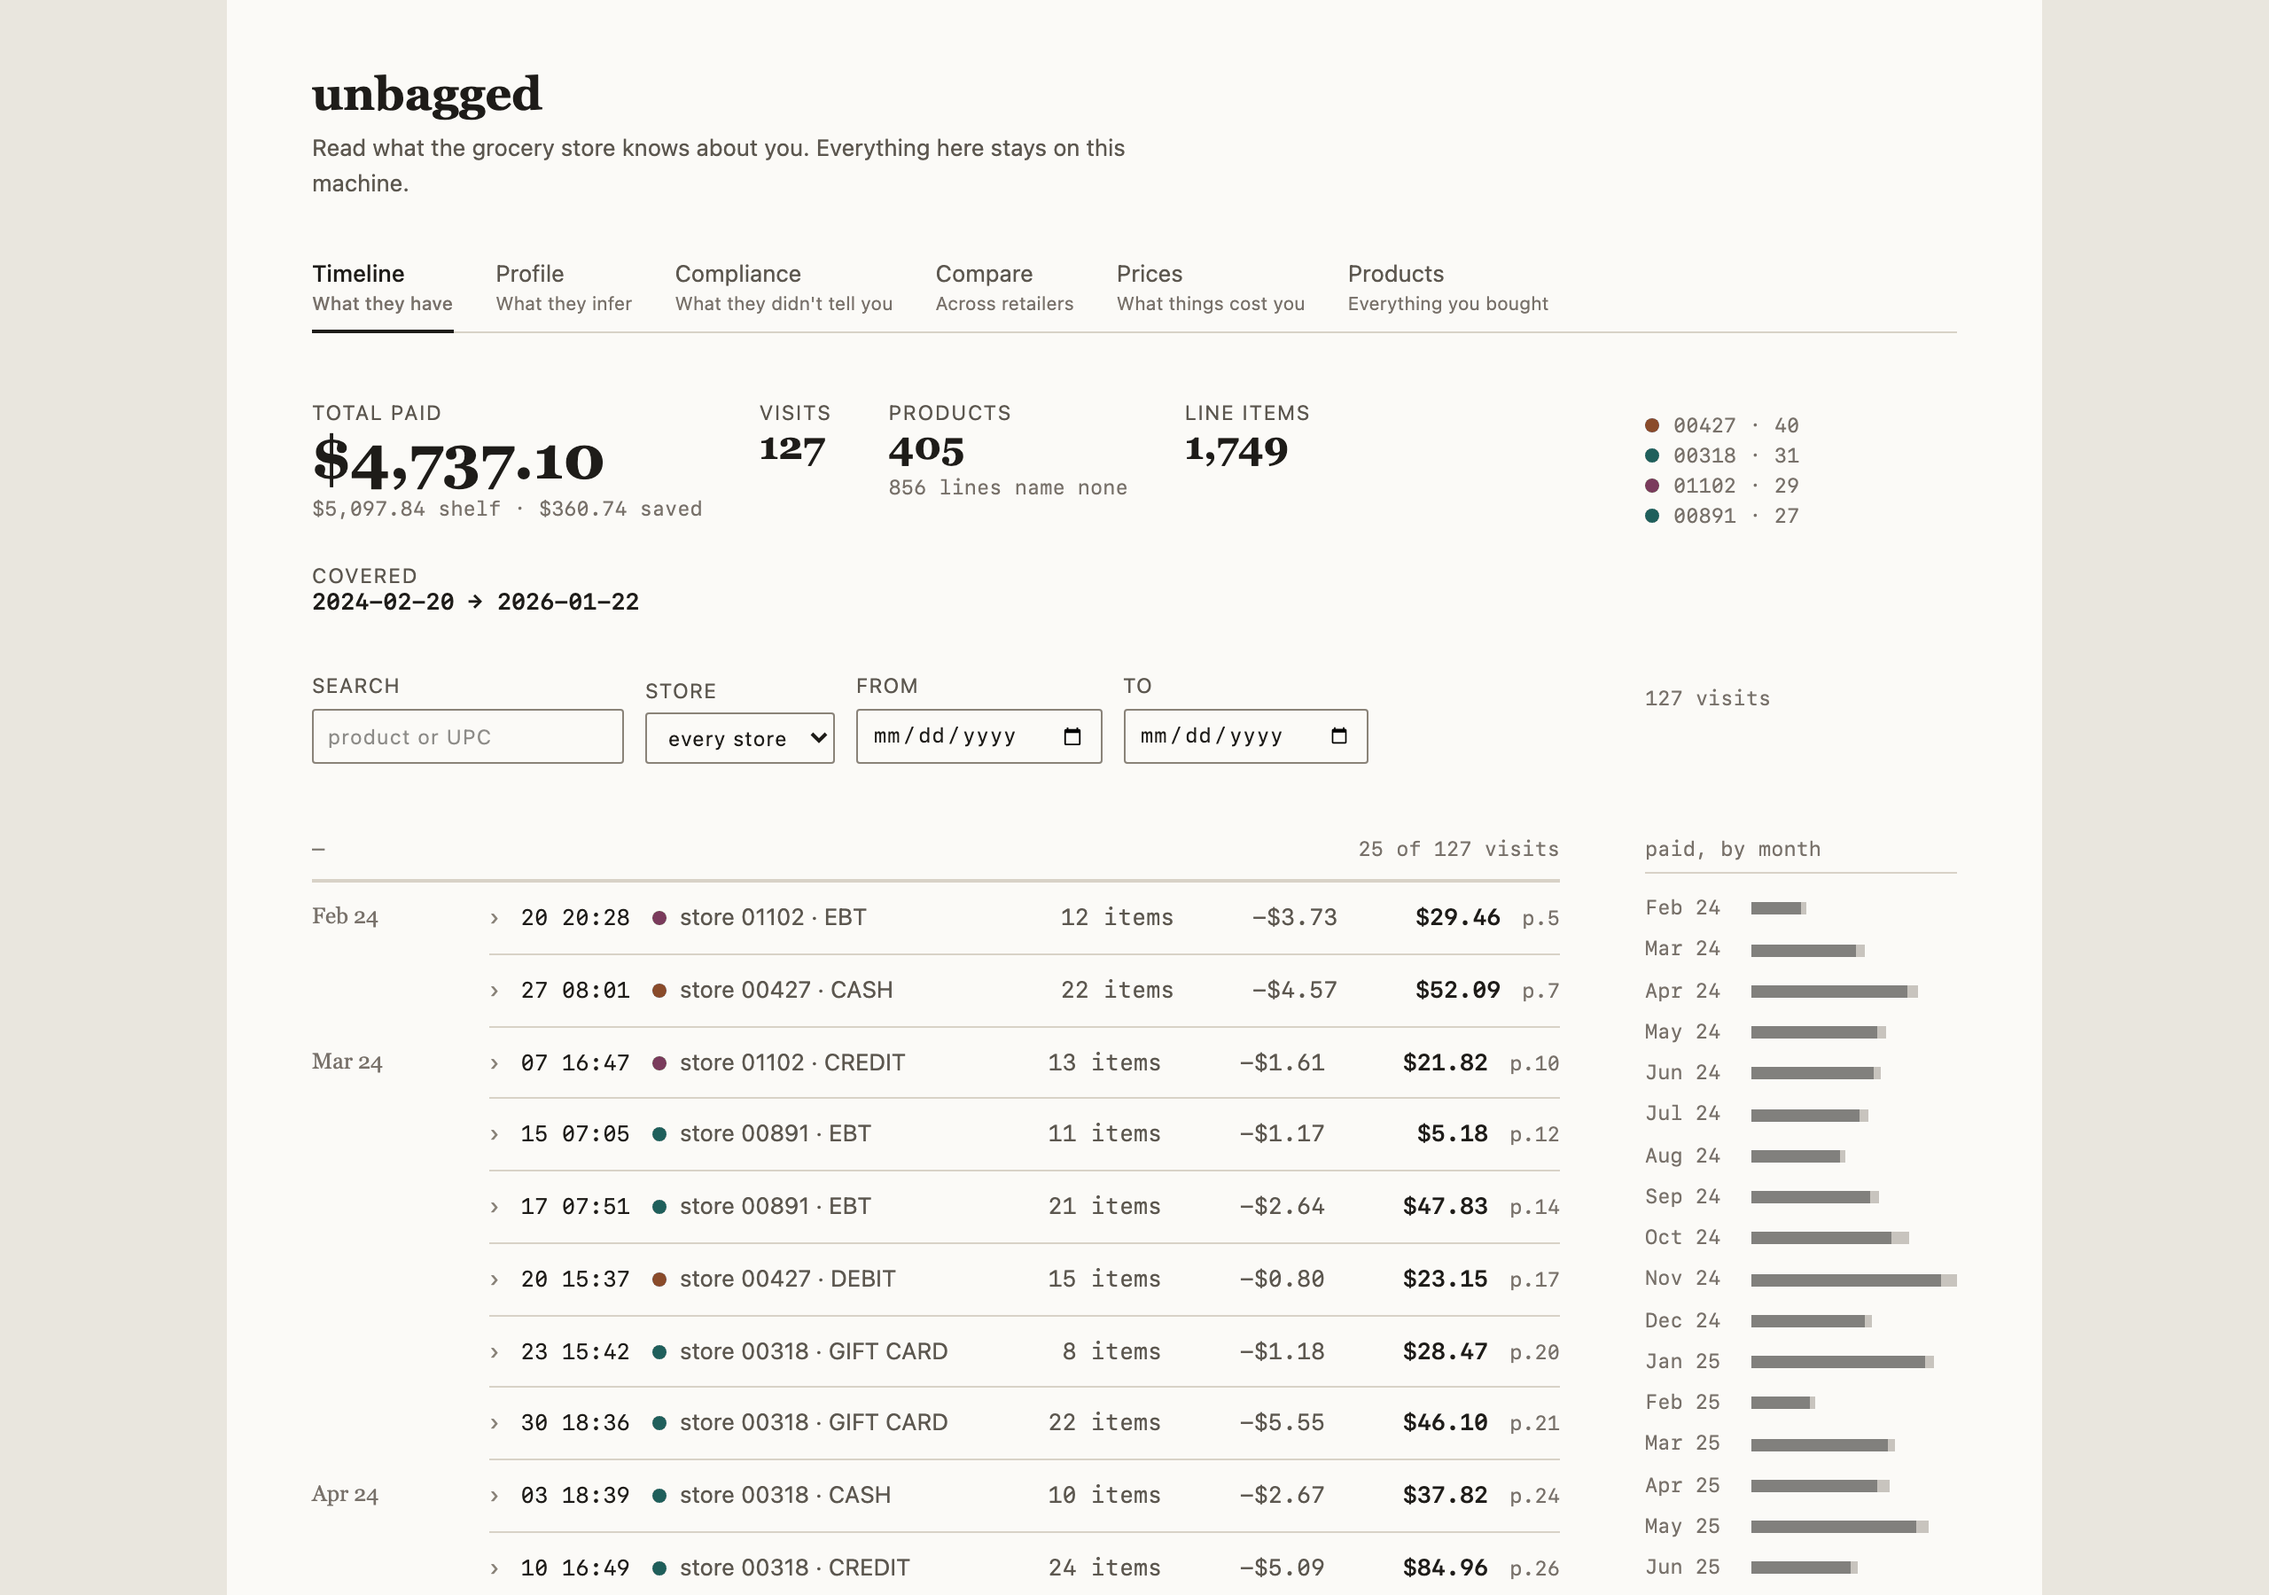
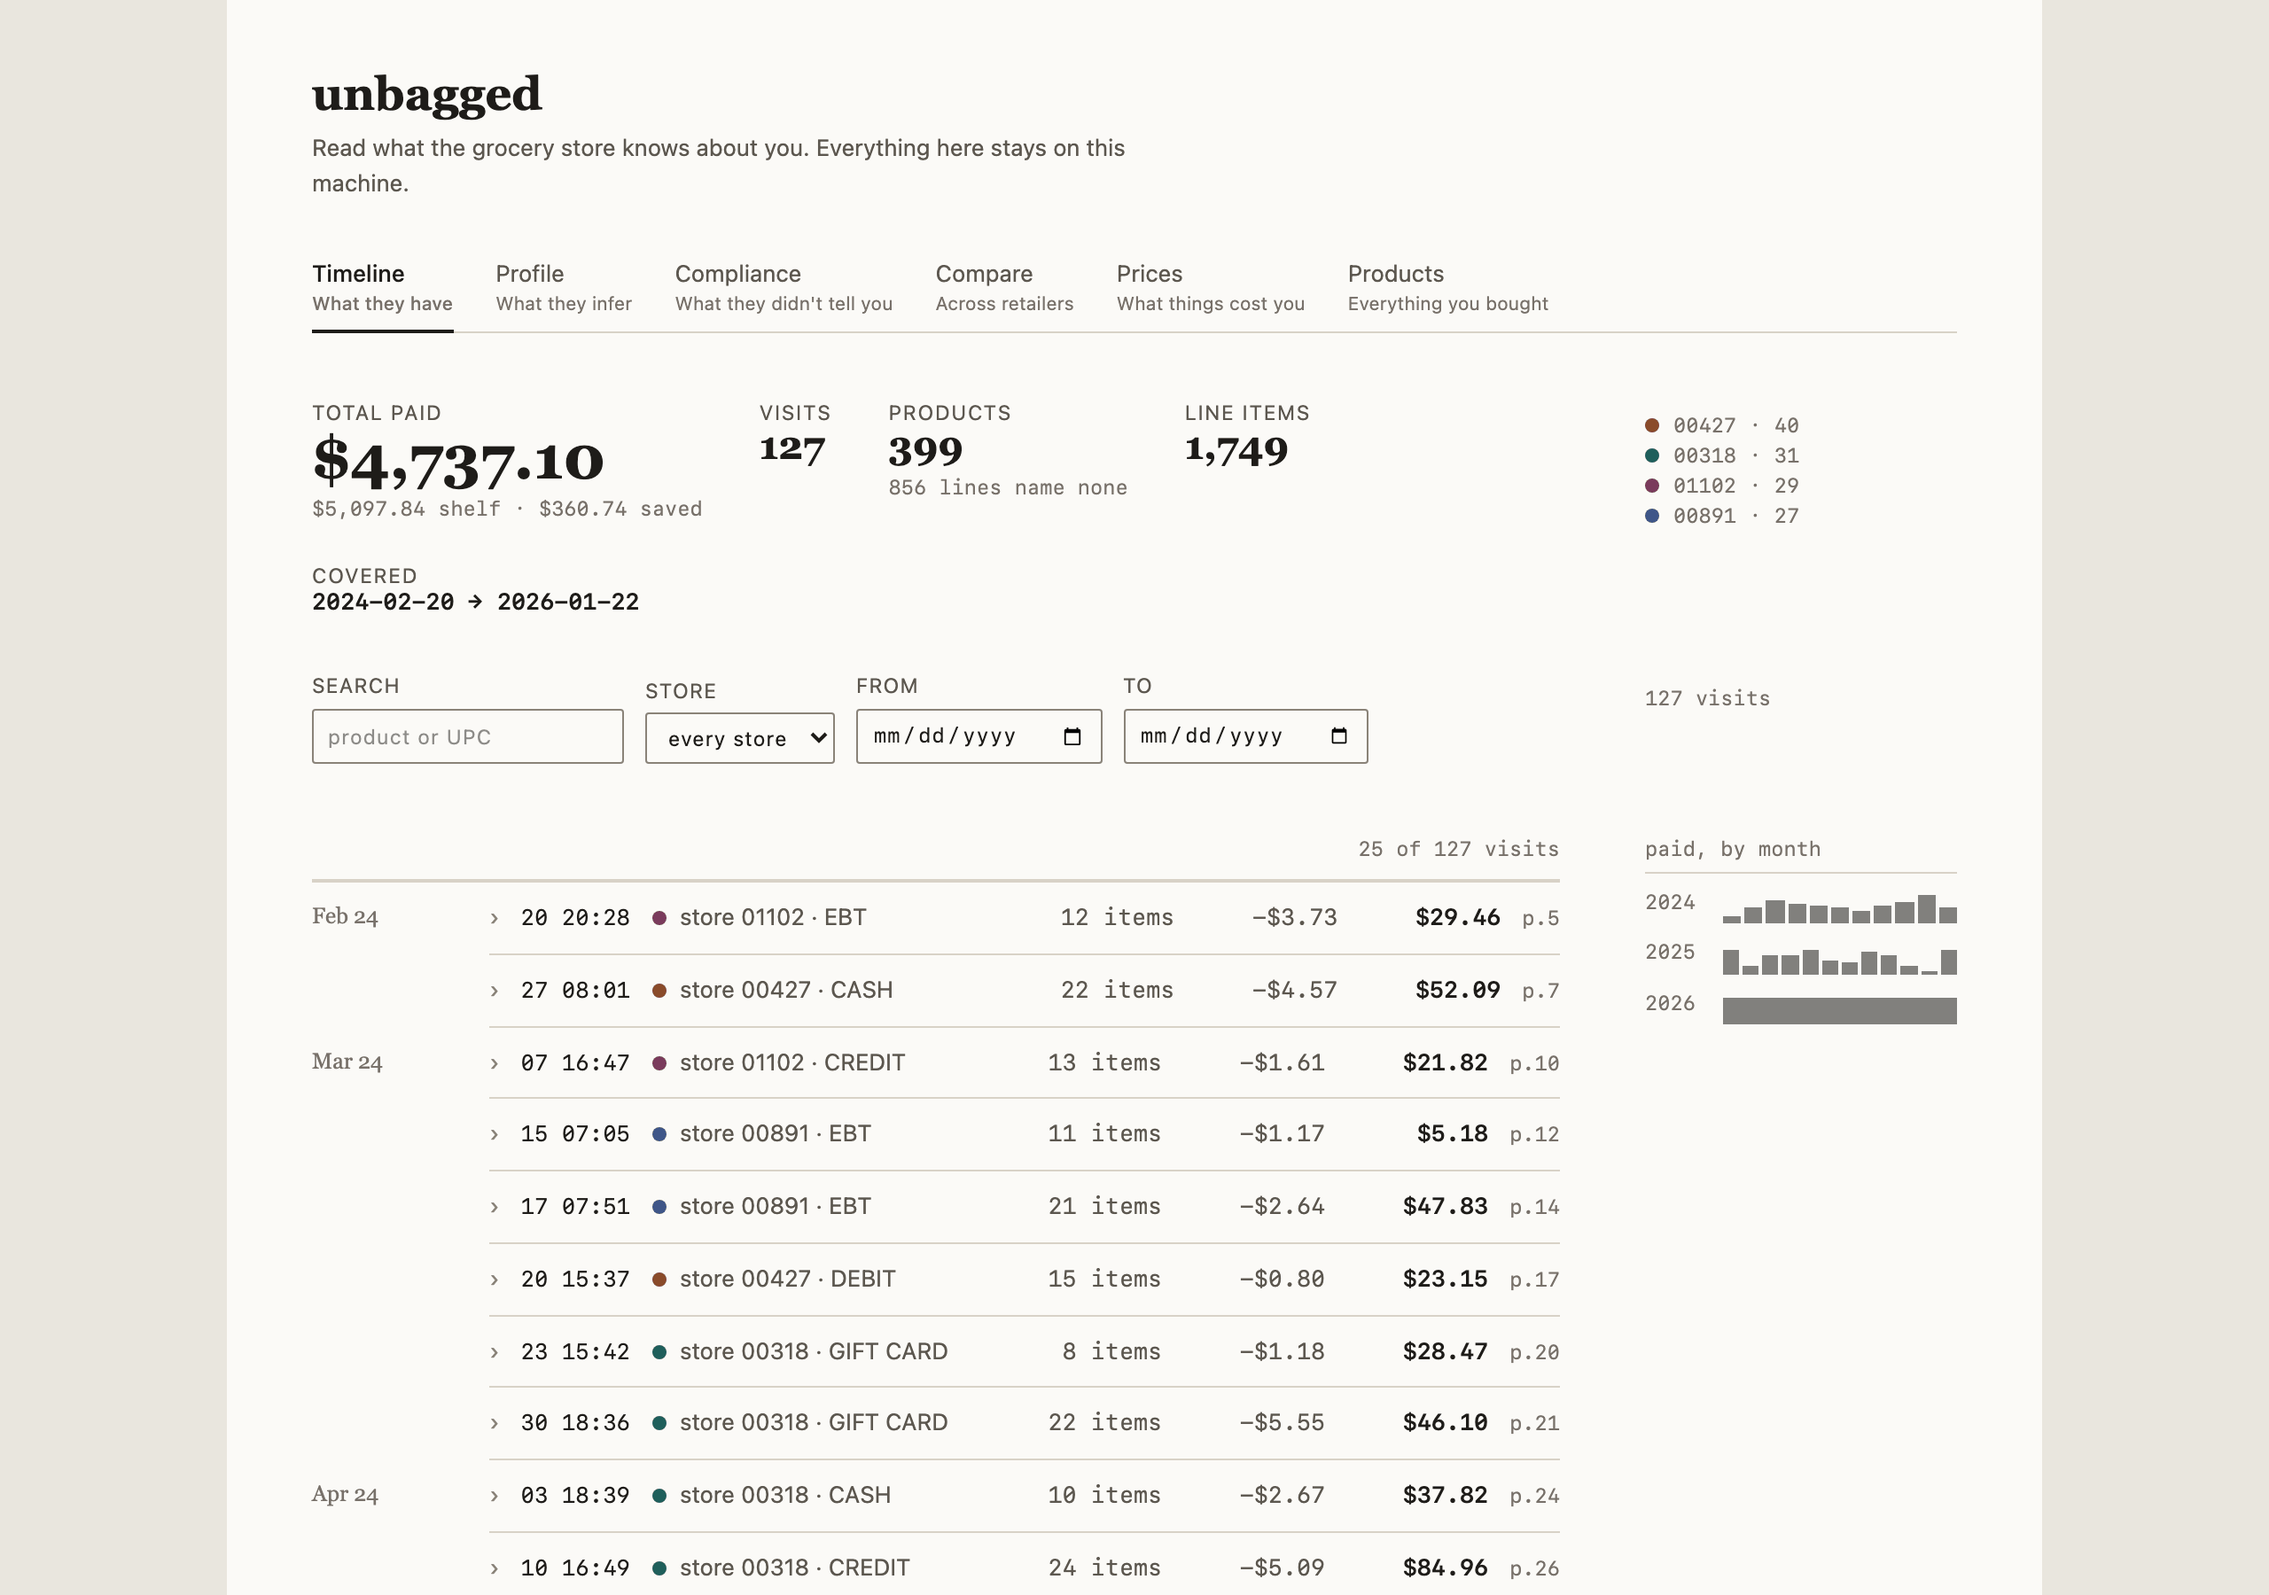
docs: cut the history, keep the contract
The docs had accumulated more record-of-how-we-got-here than description of what
the thing is. This trims that without losing anything a reader or a test depends
on.

`docs/handoff.md` loses §10 and most of §9. §10 asked the project owner four
questions that have all since been answered — scope, real-report validation,
letter templates — and read as open. §9 was forty-four lines of milestones all
complete since 0.9.0. The milestone TABLE stays, in eight rows instead of forty-
four, because six test modules and `repository.py` cite these by name: strip the
definitions and `test_scan_pii.py`'s "the M0 acceptance case" points at nothing.
§8 stays whole — `Compliance.tsx:22` and `DESIGN.md`'s decisions log both cite it
as the thing they deliberately departed from. §§0-7 are the live contract and are
untouched.

The README's "Working on it" spent twenty-four lines listing what
`make test-container` asserts, phrased as the bugs that made each assertion
necessary: a stale closure resolving half a minute later, a failed list read
keeping what is on screen. True, and a changelog of past defects in the place a
new contributor looks for how to run the tests. It now says what the tier is for
in four lines. The reasoning moved to `CONTRIBUTING.md` as a tier table, which is
where somebody deciding where to put a test is actually standing.

The Quickstart's `--build` paragraph argued from a past incident and had the
[…]

Changed region(s): [[0.7188, 0.56, 0.875, 0.9956], [0.4062, 0.28, 0.4375, 0.3111]]

diff --git a/docs/handoff.md b/docs/handoff.md
@@ -612,61 +612,20 @@ Wrap the Docker commands so contributors never need to remember overlay syntax.
 
 ## 9. Milestones
 
-> **All milestones are complete as of 0.9.0 (2026-09-03).** This section is kept
-> as the record of the intended order, not as a plan. Work since then is recorded
-> in `CHANGELOG.md`, and planned work is filed as GitHub issues.
+> **Complete as of 0.9.0 (2026-09-03).** Kept because the tests still cite these
+> by name: `test_scan_pii.py`, `test_repository.py`, `test_kroger_degradation.py`
+> and `test_generic_adapter.py` each assert one of the acceptance criteria below,
+> and `repository.py` cites M1. The build order they record is history; shipped
+> work is in `CHANGELOG.md` and planned work is filed as
+> [GitHub issues](https://github.com/jdmacleod/unbagged/issues).
 
-Each milestone is independently mergeable with passing CI.
-
-**M0 — Safeguards and scaffolding.** Repo init, MIT LICENSE, `.gitignore`,
-`.dockerignore`, `CLAUDE.md`, pre-commit config, `tools/scan_pii.py`, CI workflow,
-Makefile, CONTRIBUTING.md.
-*Acceptance:* deliberately place a file containing a fake-but-realistic address under
-`data/` and in the tree; confirm the hook and CI both reject it.
-
-**M1 — Canonical schema.** Migrations, models, a repository layer. No parsers yet.
-*Acceptance:* schema creates cleanly, round-trips a hand-built `ParseResult`.
-
-**M2 — Fixture generator.** `tools/make_fixtures.py` emitting a structurally faithful
-synthetic Kroger report.
-*Acceptance:* generated fixture passes `scan_pii` and matches the documented section
-structure.
-
-**M3 — Kroger adapter.** Full parse against the synthetic fixture. All four blobs,
-identity graph, both inference classes, ABSENT disclosures, follow-up action for the
-pre-2022 supplemental window.
-*Acceptance:* parses the fixture into the expected record counts; degrades with warnings
-rather than crashing on a truncated input.
-
-**M4 — API.** FastAPI read endpoints for each view, plus upload/ingest.
-*Acceptance:* OpenAPI schema generated; endpoints covered by tests against fixture data.
-
-**M5 — UI.** Timeline, Profile, Compliance. Compare and price history if time allows.
-*Acceptance:* every displayed value traceable to a provenance link.
-*Shipped:* all five, plus a sixth Products view added in 0.10.0. See §8 above.
-
-**M6 — Docker packaging.** Single-container compose, dev overlay, README quickstart.
-*Acceptance:* a clean machine with only Docker installed reaches a working UI in three
-commands.
-
-**M7 — Adapter authoring guide.** `docs/writing-an-adapter.md`, Safeway and H Mart stubs,
-generic-fallback adapter for unstructured letters.
-*Acceptance:* a contributor can add a new retailer without touching core code.
-
----
-
-## 10. Open questions for the project owner
-
-1. **Scope beyond groceries.** The schema is retailer-agnostic already. Do you want the
-   README to invite pharmacy, telecom, and airline adapters, or stay narrow to build a
-   credible v1 first? This decision drives the name choice in section 2.
-2. **Real-report validation.** M3 tests against synthetic fixtures only. You'll need to
-   validate the Kroger adapter against your actual report locally, outside the repo.
-   Suggest a documented workflow: `data/incoming/`, never staged, verified by the M0
-   tooling.
-3. **Contact with Bristol.** Fryer and Day have run public workshops on this exact
-   interaction design and listed public release as future work. Worth an email before M5
-   locks the UI down.
-4. **Follow-up letter templates.** Should the compliance view's letter generator borrow
-   Datenanfragen's template approach, or stay minimal? Reusing their letter-generator
-   package is possible but adds a TypeScript dependency to a Python backend.
+| | Milestone | Acceptance |
+|---|---|---|
+| M0 | Safeguards and scaffolding | A fake-but-realistic address under `data/` is rejected by both the hook and CI |
+| M1 | Canonical schema | A hand-built `ParseResult` round-trips through storage unchanged |
+| M2 | Fixture generator | The generated fixture passes `scan_pii` and matches the documented section structure |
+| M3 | Kroger adapter | Parses the fixture to the expected record counts, and degrades with warnings rather than crashing on truncated input |
+| M4 | API | OpenAPI schema generated; every endpoint covered against fixture data |
+| M5 | UI | Every displayed value traceable to a provenance link |
+| M6 | Docker packaging | A clean machine with only Docker reaches a working UI in three commands |
+| M7 | Adapter authoring guide | A contributor can add a retailer without touching core code |

diff --git a/README.md b/README.md
@@ -41,13 +41,14 @@ own document with its own citation, so nothing has to be unpacked by hand. One
 exception: a password-protected archive cannot be opened here, and says so rather
 than failing quietly — unpack that one yourself and drop what was inside.
 
-The first run builds the app: it pulls two base images, compiles the UI, and
-installs the Python dependencies, which took about 75 seconds on a clean machine.
-There is no prebuilt image to download, deliberately — you run what you can read.
-Later starts re-check the build first and are immediate when nothing has changed,
-which measured at about two seconds. That check is why `--build` is on the
-command: without it Docker reuses the image it built last, and a pull would
-leave you running the previous version with nothing but the footer to say so. Reading a long report takes 10 to 30 seconds.
+The first run builds the app: two base images, the UI, and the Python dependencies,
+about 75 seconds on a clean machine. There is no prebuilt image to download,
+deliberately — you run what you can read. Later starts re-check the build and take
+about two seconds when nothing has changed. Keep `--build` on the command: without
+it Docker serves whatever it built last, so a pull can leave you running the
+previous version.
+
+Reading a long report takes 10 to 30 seconds.
 
 Your database and uploads live in `./data`, on your disk. Back it up by copying
 that directory.
@@ -155,29 +156,11 @@ the API proxied at `/api`. The backend's own port is deliberately not published 
 dev: it would serve the bundle frozen into the image at build time, with no way to
 tell from a browser.
 
-`make test-container` builds and runs a real container and checks the things only a
-running one can show: effective uid, data permissions, bounded restart, that the
-shipped image is the runtime stage, that no view scrolls sideways from 320px up,
-that a first upload's report — which retailer matched, and every parse warning — is
-still on screen once the response has loaded, and that adding a response switches to
-it rather than leaving you reading the one you added before. A second browser module
-covers the ten to thirty seconds between dropping a file and reading the report: that
-the upload lands on the view you are on when it finishes rather than the one you left,
-that no other response flashes up first, that Back still works afterwards, that the
-report takes focus and the outcome is announced, that a failed read of the response
-list keeps what is on screen instead of emptying the page, and that a second tab finds
-out when a response is removed.
-Tests needing real uid semantics skip loudly on Docker Desktop, where bind-mount
-ownership is remapped and they would otherwise pass without checking anything.
-
-The two frontend tiers split by what they can reach, and it matters where a test
-lands. `make test-frontend` runs vitest over the pure decisions — which response to
-show, whether a navigation goes anywhere, what the arrival announcement says — and
-that suite has no DOM renderer, so it cannot reach any of the wiring. A claim about
-real responses landing against a real DOM — a stale closure resolving half a minute
-later, a history entry, a focus move, an aborted fetch — belongs in the container
-tier, which drives a browser. The browser modules there share one harness
-(`tests/container/browser.py`), so two tests that mean to start the same app do.
+`make test-container` builds and runs a real container and checks what only a running
+one can show: how it starts, what it may touch on disk, and what the app actually
+does in a browser between dropping a file and reading the report. It is slow and it
+is where anything involving a real DOM belongs; `CONTRIBUTING.md` explains which tier
+a given test goes in and why.
 
 `make help` lists the rest. `CONTRIBUTING.md` covers the PII safeguards, which you
 should read before putting a real report anywhere near this repository.

diff --git a/CONTRIBUTING.md b/CONTRIBUTING.md
@@ -243,6 +243,25 @@ the schema and widens the context window. A model that fails A and passes B is
 capable and tripped by the schema rather than a weak reader, which is a
 different thing to fix.
 
+## Which tier a test belongs in
+
+Three tiers, split by what they can reach. Putting a test in the wrong one is how
+it passes while asserting nothing.
+
+| Tier | Command | Reaches |
+|---|---|---|
+| Fast | `make test` | Python: adapters, extraction, the schema, the API through `TestClient` |
+| Frontend | `make test-frontend` | vitest over pure decisions — which response to show, whether a navigation goes anywhere, what the arrival announcement says. **No DOM renderer**, so it cannot reach any of the wiring |
+| Container | `make test-container` | A real image, a real browser: uid and data permissions, bounded restart, that no view scrolls sideways from 320px up, and anything that happens against a real DOM |
+
+The line that matters is between the last two. A claim about real responses landing
+— a stale closure resolving half a minute later, a history entry, a focus move, an
+aborted fetch — cannot be made in vitest, because there is nothing there for it to
+land against. It goes in the container tier.
+
+Tests needing real uid semantics skip loudly on Docker Desktop, where bind-mount
+ownership is remapped and they would otherwise pass without checking anything.
+
 ## Writing a test that needs a browser
 
 Mark it with `requires_browser` from `tests/container/conftest.py`, not
@@ -419,8 +438,8 @@ compatibility contract is read against your database rather than a code API, and
 a prebuilt image would ask people to trust a binary in a project whose whole
 pitch is that they can read every line first.
 
-    git tag -s v0.13.0 -m "unbagged 0.13.0"
-    git push origin v0.13.0
+    git tag -s v0.16.0 -m "unbagged 0.16.0"
+    git push origin v0.16.0
 
 That is the whole procedure. `.github/workflows/release.yml` fires on the tag,
 runs `tools/release_notes.py`, and creates the release from the CHANGELOG
@@ -448,7 +467,7 @@ commit cannot be quietly moved — it has to be superseded by a new version.
 Tags are signed, and `.github/allowed_signers` is what lets you check one:
 
     git config gpg.ssh.allowedSignersFile .github/allowed_signers
-    git verify-tag v0.12.0
+    git verify-tag v0.16.0
     # Good "git" signature for ... with ED25519 key SHA256:...
 
 GitHub verifies independently and shows a Verified badge either way. The file
